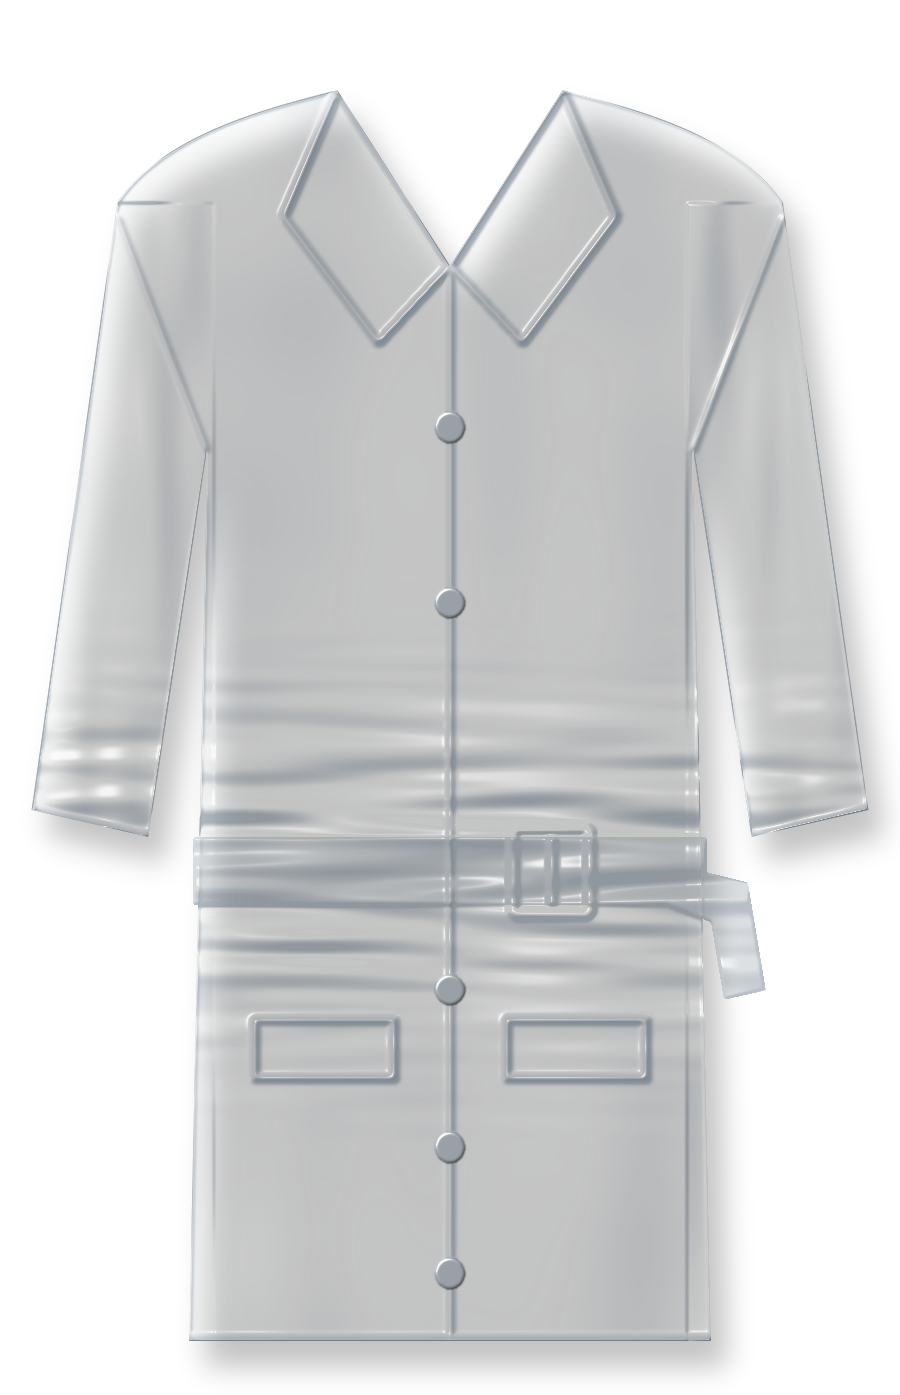
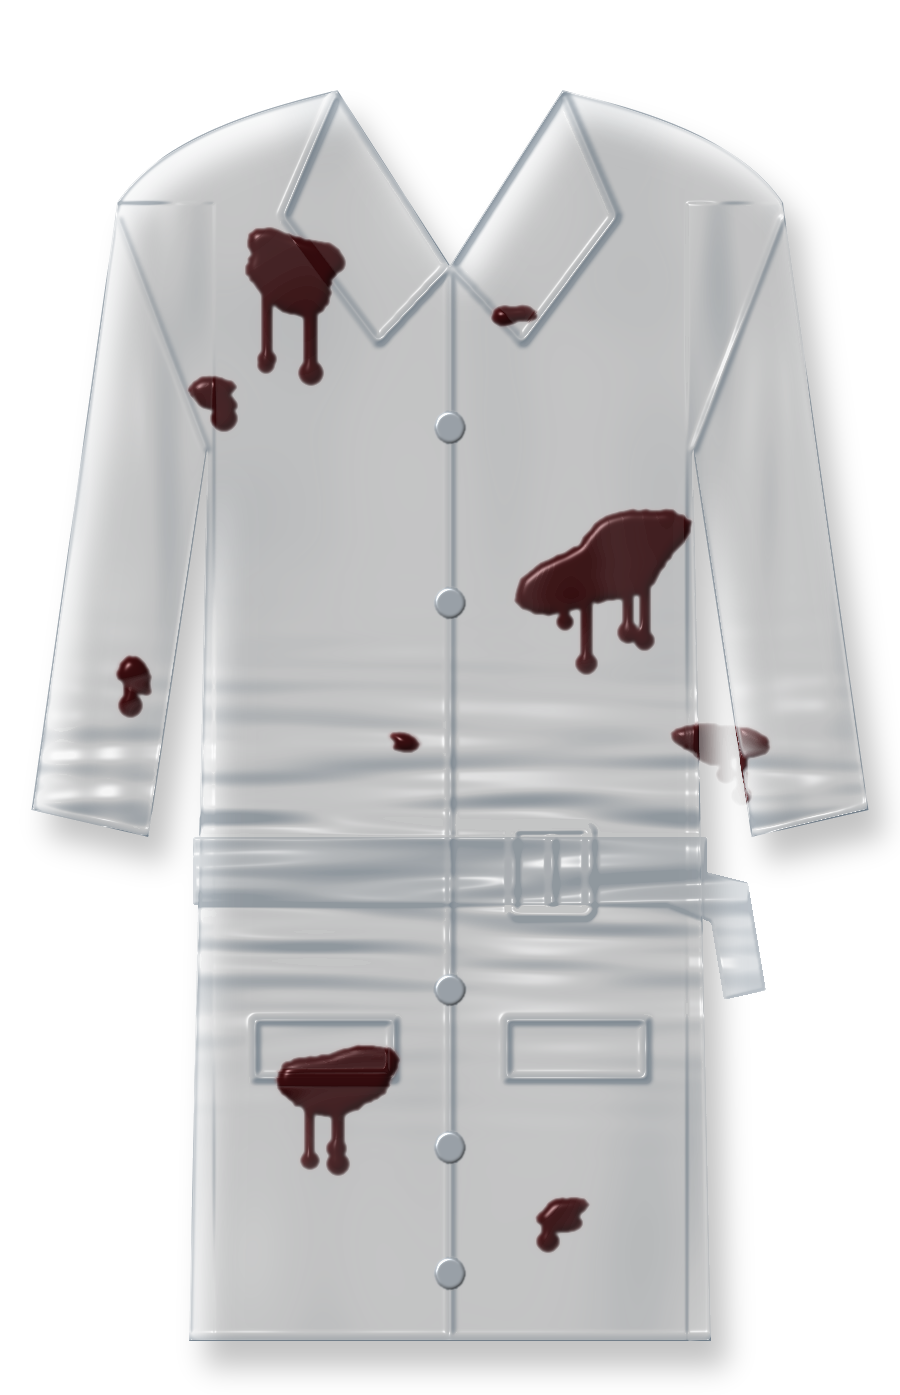
Blender axe, bloodied raincoat close-up on the collar, readable card, random night backgrounds, Loser timer from 0:00, quieter start, varied project cards

diff --git a/src/pages/NightPage.tsx b/src/pages/NightPage.tsx
@@ -99,7 +99,7 @@ export default function NightPage() {
   const [playing, setPlaying] = useState(false);
   const [time, setTime] = useState(0);
   const [dur, setDur] = useState(0);
-  const [volume, setVolume] = useState(0.2);
+  const [volume, setVolume] = useState(0.1);
   const [glass, setGlass] = useState(0.7);
   const [scrollP, setScrollP] = useState(0);
   const [inView, setInView] = useState(false);
@@ -177,6 +177,7 @@ export default function NightPage() {
   };
 
   const track = tracks[idx];
+  const off = track.start ?? 0; // seconds skipped at the start; the timer hides them
   const glassStyle = {
     background: `rgba(0,0,0,${glass})`,
     backdropFilter: glass > 0 ? `blur(${10 * glass}px)` : "none",
@@ -265,11 +266,11 @@ export default function NightPage() {
               <span className="nt-mtitle">{track.title}</span>
               <span className="nt-martist">{track.artist}</span>
             </div>
-            <span className="nt-time">{fmt(time)}</span>
+            <span className="nt-time">{fmt(Math.max(0, time - off))}</span>
             <input
               className="nt-progress"
               type="range"
-              min={0}
+              min={off}
               max={dur || 1}
               step={0.1}
               value={time}
@@ -278,7 +279,7 @@ export default function NightPage() {
               }}
               aria-label="Progress"
             />
-            <span className="nt-time">{fmt(dur)}</span>
+            <span className="nt-time">{fmt(Math.max(0, dur - off))}</span>
             <div className="nt-ctrls">
               <button onClick={prev} aria-label="Previous">
                 <svg viewBox="0 0 24 24"><path d="M6 5h2v14H6zM20 5v14L9 12z" fill="currentColor" /></svg>
@@ -297,7 +298,7 @@ export default function NightPage() {
           </div>
 
           <div className="nt-controls" style={{ background: `rgba(0,0,0,${glass})` }}>
-            <button className="nt-icon" onClick={() => setVolume((v) => (v > 0 ? 0 : 0.2))} aria-label="Mute">
+            <button className="nt-icon" onClick={() => setVolume((v) => (v > 0 ? 0 : 0.1))} aria-label="Mute">
               <svg viewBox="0 0 24 24"><path d="M4 9h4l5-4v14l-5-4H4z" fill="currentColor" />{volume > 0 && <path d="M16 8.5a5 5 0 0 1 0 7M18.5 6a8.5 8.5 0 0 1 0 12" stroke="currentColor" strokeWidth="1.8" fill="none" strokeLinecap="round" />}</svg>
             </button>
             <input className="nt-slider" type="range" min={0} max={1} step={0.01} value={volume} onChange={(e) => setVolume(Number(e.target.value))} aria-label="Volume" />

diff --git a/src/desk/projectCards.css b/src/desk/projectCards.css
@@ -42,9 +42,11 @@
 
 /* 4. sand: typewriter, double rule border */
 .pc-sand { background: linear-gradient(180deg, #e8dcc0, #ddcfae); color: #3b2f1e; font-family: "Courier New", Courier, monospace; }
-.pc-sand::before { content: ""; position: absolute; inset: 7px; border: 1px solid rgba(59, 47, 30, 0.55); box-shadow: 0 0 0 3px #e3d5b6, 0 0 0 4px rgba(59, 47, 30, 0.3); pointer-events: none; }
-.pc-sand .pc-name { font-size: 15px; font-weight: 700; letter-spacing: 0.05em; text-transform: uppercase; }
-.pc-sand .pc-desc { font-size: 10.5px; }
+.pc-sand::before { content: ""; position: absolute; inset: 8px; border: 1px solid rgba(59, 47, 30, 0.5); pointer-events: none; }
+.pc-sand { padding: 9% 10% 7%; }
+.pc-sand .pc-name { font-size: 16px; font-weight: 700; letter-spacing: 0.06em; text-transform: uppercase; }
+.pc-sand .pc-desc { font-size: 11.5px; line-height: 1.45; -webkit-line-clamp: 3; }
+.pc-sand .pc-tags { font-size: 9px; }
 
 /* 5. nimbus: cool grey, hairline frame, didone, centred */
 .pc-nimbus { background: linear-gradient(180deg, #e9e9e6, #dddddA); color: #26262a; font-family: "Bodoni MT", Didot, "Didot LT STD", "Times New Roman", serif; text-align: center; align-items: center; }
@@ -55,9 +57,10 @@
 
 /* 6. powder: pale blue, colour band at the foot */
 .pc-powder { background: linear-gradient(180deg, #e5ecf1, #d9e3ea); color: #1f3547; font-family: "Trebuchet MS", "Gill Sans", Candara, sans-serif; }
-.pc-powder::after { content: ""; position: absolute; left: 0; right: 0; bottom: 0; height: 9px; background: #1f3547; }
-.pc-powder .pc-name { font-weight: 700; letter-spacing: 0.02em; font-size: 18px; }
-.pc-powder .pc-foot { margin-bottom: 8px; }
+.pc-powder { padding-left: 14%; }
+.pc-powder::before { content: ""; position: absolute; left: 0; top: 0; bottom: 0; width: 7%; background: linear-gradient(180deg, #1f3547, #2f5877); }
+.pc-powder .pc-name { font-weight: 700; letter-spacing: 0.01em; font-size: 18px; }
+.pc-powder .pc-desc { font-size: 11.5px; }
 
 @media (max-width: 900px) {
   .pc-grid { grid-template-columns: 1fr; gap: 22px; padding: 18px 10px; max-width: 420px; }

diff --git a/src/desk/educationCoat.css b/src/desk/educationCoat.css
@@ -1,11 +1,11 @@
 /* Education: part of a clear plastic raincoat entering from the top edge, an axe on the table. Prefix ec- */
 .ec-root { position: relative; width: 100%; height: 100%; overflow: hidden; }
 
-.ec-coat { position: absolute; left: 50%; top: -72%; height: 158%; aspect-ratio: 900 / 1395; transform: translateX(-50%); }
+.ec-coat { position: absolute; left: 50%; top: -3%; height: 215%; aspect-ratio: 900 / 1395; transform: translateX(-50%); }
 .ec-img { position: absolute; inset: 0; width: 100%; height: 100%; user-select: none; pointer-events: none; }
 
 .ec-tag {
-  position: absolute; left: 28%; top: 69%; width: 44%; box-sizing: border-box; padding: 16px 18px 12px;
+  position: absolute; left: 27%; top: 21%; width: 46%; box-sizing: border-box; padding: 16px 18px 12px;
   background: linear-gradient(180deg, #f3eee2, #e8e1d1); color: #1e1c19;
   box-shadow: 0 6px 14px rgba(0, 0, 0, 0.35); transform: rotate(-1.2deg);
   font-family: "Cormorant Garamond", Garamond, "Times New Roman", serif;
@@ -20,10 +20,10 @@
 .ec-period { font: 11px ui-monospace, Consolas, monospace; color: #5a5348; }
 .ec-fine { display: block; margin-top: 10px; text-align: center; font: 9px ui-monospace, Consolas, monospace; letter-spacing: 0.1em; color: #7a7366; text-transform: uppercase; }
 
-.ec-axe { position: absolute; left: 12%; bottom: 2%; width: 82%; z-index: 4; transform: rotate(-9deg); transform-origin: 20% 50%; user-select: none; pointer-events: none; }
+.ec-axe { position: absolute; left: 4%; bottom: -6%; width: 86%; z-index: 4; transform: rotate(-9deg); transform-origin: 20% 50%; user-select: none; pointer-events: none; }
 
 @media (max-width: 900px) {
-  .ec-coat { top: -60%; height: 140%; }
-  .ec-tag { left: 20%; width: 60%; top: 66%; }
+  .ec-coat { top: -2%; height: 170%; }
+  .ec-tag { left: 20%; width: 60%; top: 20%; }
   .ec-axe { width: 96%; left: 2%; }
 }

diff --git a/src/components/businessCard.css b/src/components/businessCard.css
@@ -5,8 +5,8 @@
   --bc-paper: #efe9dc;
   --bc-paper-hi: #f6f1e6;
   --bc-paper-lo: #e4dccb;
-  --bc-ink: #4a443a;
-  --bc-ink-soft: #7a7264;
+  --bc-ink: #2d2820;
+  --bc-ink-soft: #564e40;
   --bc-edge: rgba(70, 60, 40, 0.14);
   --bc-shadow: rgba(20, 16, 10, 0.32);
   --bc-serif: "Cormorant Garamond", "Cormorant", "EB Garamond", Garamond, "Times New Roman", Times, serif;
@@ -160,8 +160,8 @@
 
 .bc-subtitle {
   font-size: 12px;
-  font-size: clamp(10px, 3.05cqw, 13px);
-  letter-spacing: 0.14em;
+  font-size: clamp(12px, 3.5cqw, 15px);
+  letter-spacing: 0.09em;
   line-height: 1.35;
   color: var(--bc-ink-soft);
   text-wrap: balance;
@@ -173,8 +173,8 @@
   right: 6%;
   bottom: 9%;
   font-size: 11px;
-  font-size: clamp(9.5px, 2.75cqw, 12px);
-  letter-spacing: 0.16em;
+  font-size: clamp(11px, 3.05cqw, 13.5px);
+  letter-spacing: 0.1em;
   color: var(--bc-ink-soft);
 }
 
@@ -182,10 +182,10 @@
   position: absolute;
   top: 8%;
   font-size: 10px;
-  font-size: clamp(9px, 2.5cqw, 11px);
-  letter-spacing: 0.22em;
+  font-size: clamp(10px, 2.7cqw, 12px);
+  letter-spacing: 0.18em;
   color: var(--bc-ink-soft);
-  opacity: 0.85;
+  opacity: 0.95;
 }
 .bc-corner-tl {
   left: 6%;

diff --git a/src/night/RainBackground.tsx b/src/night/RainBackground.tsx
@@ -244,6 +244,9 @@ export default function RainBackground() {
     // --- main loop -----------------------------------------------------------
     const start = performance.now();
     let lastIdx = -1;
+    // random scene each visit, then a random different one each time
+    let sceneIdx = Math.floor(Math.random() * SCENES.length);
+    let sceneStart = 0;
     const draw = (t: number) => {
       const g = ctx.createLinearGradient(0, 0, 0, h);
       g.addColorStop(0, "#07090d");
@@ -254,8 +257,14 @@ export default function RainBackground() {
 
       // one ML scene at a time, with a fade between them
       const el = t - start;
-      const idx = Math.floor(el / SCENE_MS) % SCENES.length;
-      const local = el % SCENE_MS;
+      if (el - sceneStart >= SCENE_MS) {
+        let n = sceneIdx;
+        while (n === sceneIdx) n = Math.floor(Math.random() * SCENES.length);
+        sceneIdx = n;
+        sceneStart = el;
+      }
+      const idx = sceneIdx;
+      const local = el - sceneStart;
       if (idx !== lastIdx) {
         lastIdx = idx;
         pulses.length = 0;

diff --git a/src/App.tsx b/src/App.tsx
@@ -34,7 +34,17 @@ export default function App() {
             onClick={() => setMode(night ? "day" : "night")}
             aria-label={night ? ui.day[lang] : ui.night[lang]}
           >
-            {night ? "☀ " + ui.day[lang] : "☾ " + ui.night[lang]}
+            <svg viewBox="0 0 24 24" width="14" height="14" aria-hidden style={{ marginRight: 7, verticalAlign: "-2px" }}>
+              {night ? (
+                <g fill="none" stroke="currentColor" strokeWidth="2" strokeLinecap="round">
+                  <circle cx="12" cy="12" r="4" />
+                  <path d="M12 2v3M12 19v3M2 12h3M19 12h3M4.9 4.9l2.1 2.1M17 17l2.1 2.1M4.9 19.1 7 17M17 7l2.1-2.1" />
+                </g>
+              ) : (
+                <path d="M20 14.5A8.5 8.5 0 1 1 9.5 4 6.7 6.7 0 0 0 20 14.5Z" fill="currentColor" />
+              )}
+            </svg>
+            {night ? ui.day[lang] : ui.night[lang]}
           </button>
         </div>
       </header>

diff --git a/src/pages/desk.css b/src/pages/desk.css
@@ -23,7 +23,7 @@
   transition: transform 1.3s cubic-bezier(0.7, 0, 0.2, 1);
 }
 .view-projects .world { transform: translateX(-64%); }
-.view-education .world { transform: translateX(64%); }
+.view-education .world { transform: translateX(100%); }
 .view-experience .world { transform: translateY(100%); }
 .view-contact .world { transform: translateY(-100%); }
 
@@ -141,7 +141,7 @@
 /* ---- zones the camera visits ---- */
 .zone { position: absolute; }
 .zone-projects  { left: 100%;  top: 0; width: 54%; height: 100%; }
-.zone-education { left: -54%; top: 0; width: 54%; height: 100%; overflow: hidden; }
+.zone-education { left: -100%; top: 0; width: 100%; height: 100%; overflow: hidden; }
 .zone-experience { left: 50%; top: -100%; width: min(660px, 92%); height: 100%; transform: translateX(-50%); padding: 22px 0; }
 .zone-contact { left: 50%; top: 150%; width: min(1020px, 92%); transform: translate(-50%, -50%); }
 

diff --git a/src/styles.css b/src/styles.css
@@ -56,6 +56,15 @@ a:hover { text-decoration: underline; }
   border-bottom: 1px solid rgba(255, 255, 255, 0.07);
 }
 .bar .pill { background: rgba(255, 255, 255, 0.06); color: #efe3cc; border-color: rgba(255, 255, 255, 0.14); }
+.bar .pill {
+  font-family: "Cormorant Garamond", Garamond, "Times New Roman", serif;
+  font-size: 15px;
+  font-weight: 600;
+  letter-spacing: 0.1em;
+  text-transform: uppercase;
+  padding: 6px 15px;
+}
+:root[data-mode="night"] .bar .pill { font-family: "Courier New", ui-monospace, monospace; font-size: 12px; font-weight: 400; letter-spacing: 0.16em; }
 .pill-icon { display: inline-flex; align-items: center; padding: 6px 10px; }
 .bar .pill:hover { border-color: rgba(239, 227, 204, 0.55); }
 
